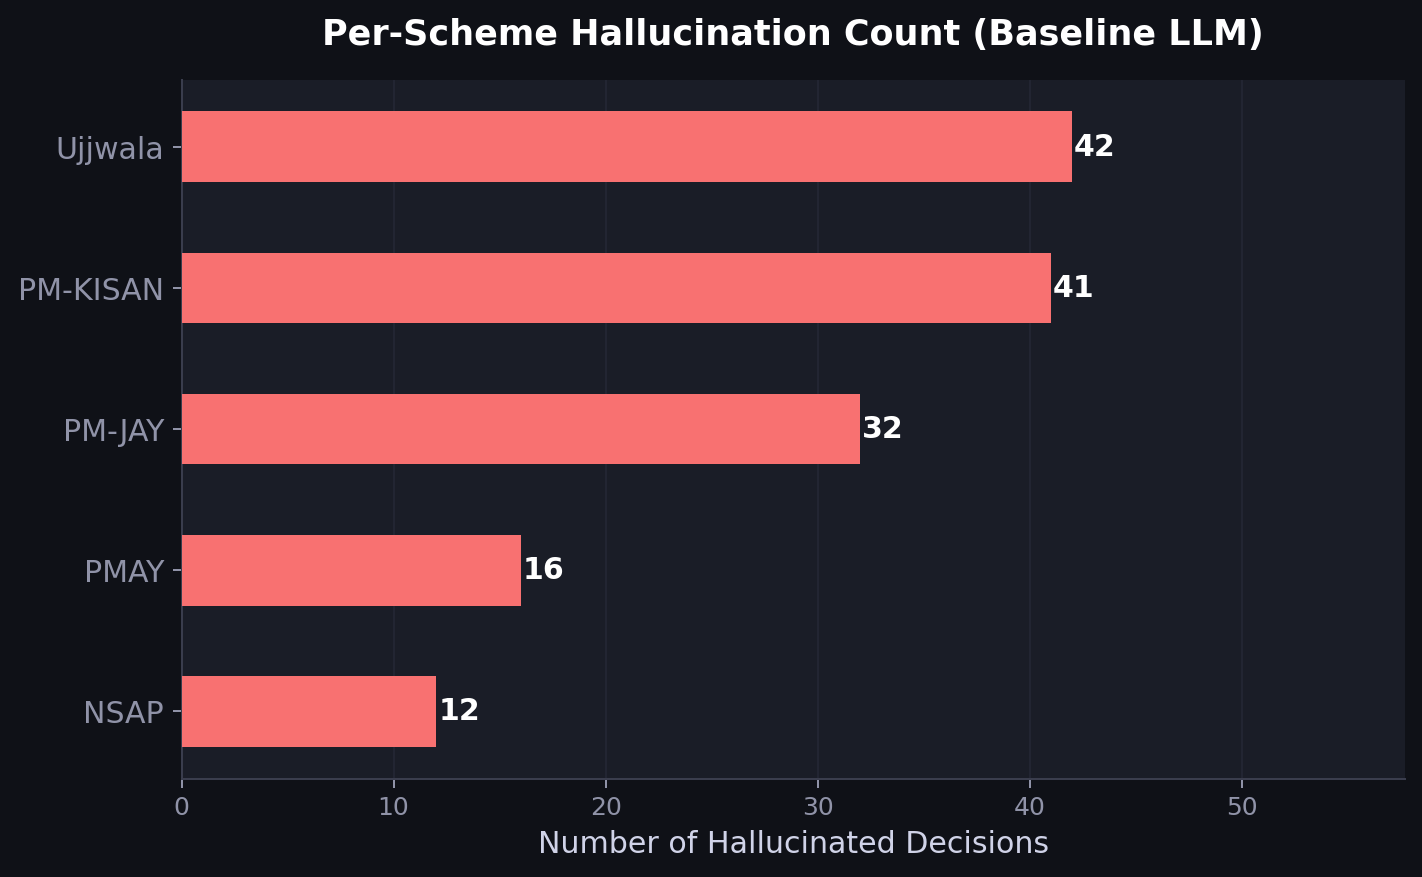
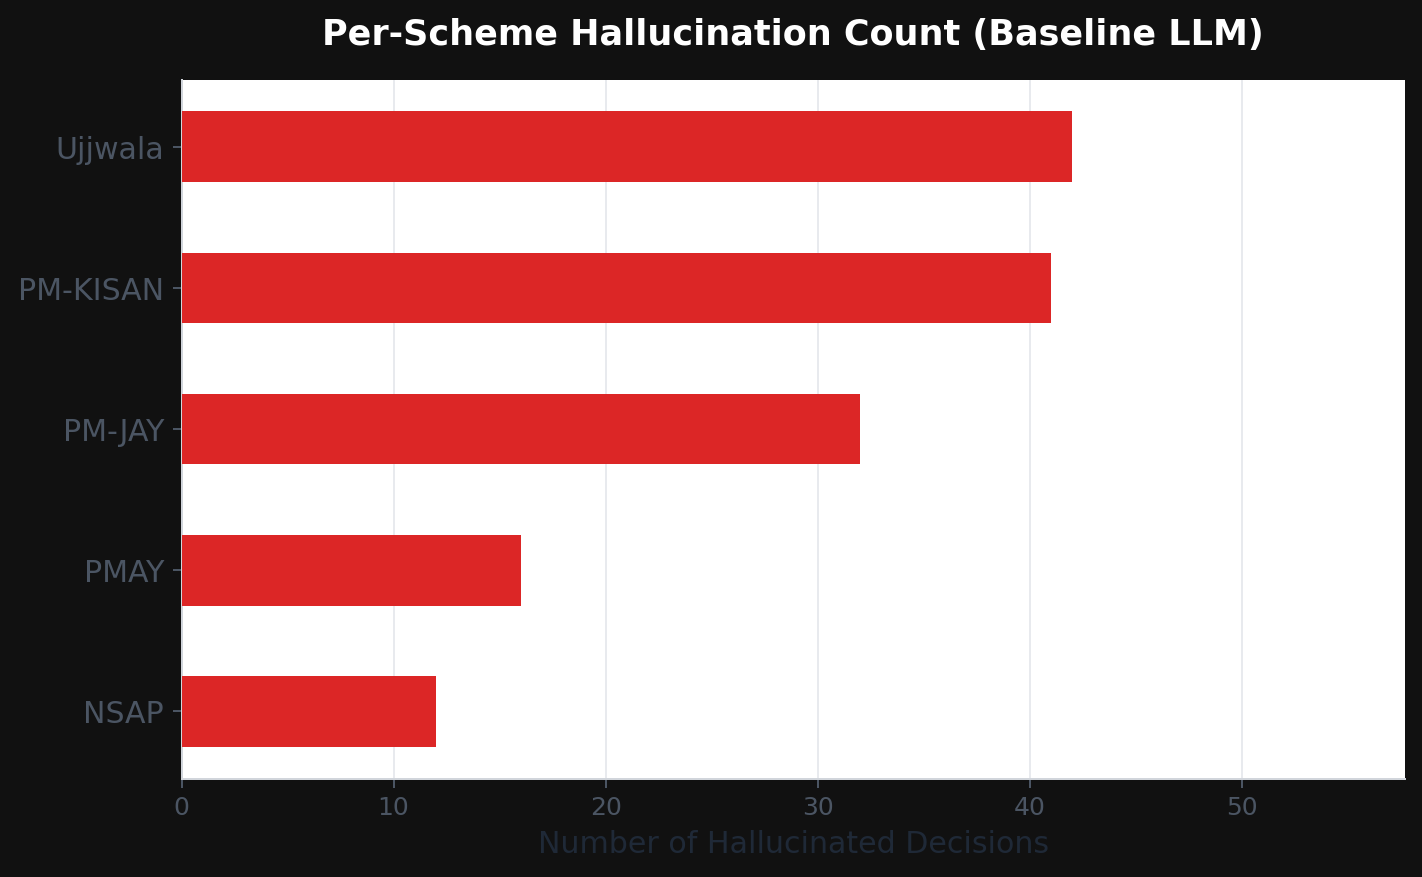
chore: change colors on graphs

diff --git a/analysis/visualize.py b/analysis/visualize.py
@@ -23,24 +23,25 @@ import numpy as np
 
 # ── Style ────────────────────────────────────────────────────────────────────
 plt.rcParams.update({
-    "figure.facecolor": "#0f1117",
-    "axes.facecolor": "#1a1d27",
-    "axes.edgecolor": "#3a3d4d",
-    "axes.labelcolor": "#d0d3e8",
-    "xtick.color": "#9093a8",
-    "ytick.color": "#9093a8",
-    "text.color": "#d0d3e8",
-    "grid.color": "#2a2d3d",
-    "grid.alpha": 0.5,
+    "figure.facecolor": "#ffffff",    # pure white
+    "axes.facecolor": "#ffffff",      # pure white
+    "axes.edgecolor": "#d1d5db",      # light gray border
+    "axes.labelcolor": "#1f2937",     # dark gray labels
+    "xtick.color": "#4b5563",         # medium gray ticks
+    "ytick.color": "#4b5563",         # medium gray ticks
+    "text.color": "#111827",          # near-black text
+    "grid.color": "#e5e7eb",          # very light gray grid
+    "grid.alpha": 0.85,                # slightly more visible for light mode
     "font.family": "DejaVu Sans",
     "axes.spines.top": False,
     "axes.spines.right": False,
 })
 
-PROPOSED_COLOR = "#4f9cf9"   # vivid blue
-BASELINE_COLOR = "#f97b4f"   # vivid orange-red
-ACCENT_GOOD    = "#4ade80"   # green for good bars
-ACCENT_BAD     = "#f87171"   # red for bad bars
+# Refined colors for better contrast on white backgrounds
+PROPOSED_COLOR = "#2563eb"   # deeper, professional blue
+BASELINE_COLOR = "#ea580c"   # rich burnt orange
+ACCENT_GOOD    = "#16a34a"   # forest green (readable on white)
+ACCENT_BAD     = "#dc2626"   # strong red (readable on white)
 
 # ── Load results ─────────────────────────────────────────────────────────────
 results_path = os.path.join(os.path.dirname(__file__), "results.json")
@@ -66,7 +67,7 @@ def bar_labels(ax, rects, fmt="{:.1f}%", color="white", offset=0.4):
 
 # ── Chart 1: Overall Decision Accuracy ───────────────────────────────────────
 fig, ax = plt.subplots(figsize=(7, 5))
-fig.patch.set_facecolor("#0f1117")
+fig.patch.set_facecolor("#eeeeee")
 
 systems  = ["Rule Engine\n+ LLM (Proposed)", "LLM Baseline"]
 accuracies = [
@@ -106,7 +107,7 @@ print(f"Saved: {out}")
 
 # ── Chart 2: Hallucination Rate ───────────────────────────────────────────────
 fig, ax = plt.subplots(figsize=(7, 5))
-fig.patch.set_facecolor("#0f1117")
+fig.patch.set_facecolor("#eeeeee")
 
 rates = [
     data["proposed_hallucination_rate"] * 100,
@@ -152,7 +153,7 @@ short  = [short[i]  for i in order]
 b_accs = [b_accs[i] for i in order]
 
 fig, ax = plt.subplots(figsize=(8, 5))
-fig.patch.set_facecolor("#0f1117")
+fig.patch.set_facecolor("#eeeeee")
 
 colors_bar = [ACCENT_GOOD if v >= 80 else BASELINE_COLOR for v in b_accs]
 y = np.arange(len(short))
@@ -183,7 +184,7 @@ print(f"Saved: {out}")
 h_counts = [scheme_data[schemes[i]]["hallucinations"] for i in order]
 
 fig, ax = plt.subplots(figsize=(8, 5))
-fig.patch.set_facecolor("#0f1117")
+fig.patch.set_facecolor("#eeeeee")
 
 colors_h = [ACCENT_BAD if v > 0 else ACCENT_GOOD for v in h_counts]
 hbars = ax.barh(y, h_counts, height=0.5, color=colors_h, edgecolor="none", zorder=3)
